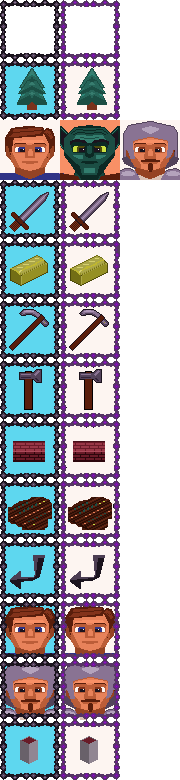
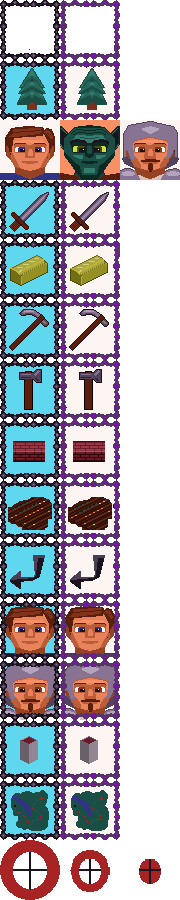
UI for peasant walk location.  Everything hooked up, but peasant doesn't walk yet.

diff --git a/js/userInterface.js b/js/userInterface.js
@@ -9,6 +9,7 @@ var farmBuildX = 10, farmBuildY = 200;
 var peasantMainMenuX = 10, peasantMainMenuY = 400;
 var pictureWidth = 60, pictureHeight = 60;
 var towerX = 10, towerY = 300;
+var walkX = 100, walkY = 120;
 var showHelp = true;
 
 var peasantSelected = false, warriorSelected = false;
@@ -22,6 +23,7 @@ var buildWallHovering = false, buildWallSelected = false;
 var farmBuildHovering = false, farmBuildSelected = false;
 var farmButtonHovering = false, farmButtonSelected = false, farmReadyToBePlaced = false;
 var towerButtonHovering = false, towerButtonSelected = false, towerReadyToBePlaced = false;
+var walkButtonHovering = false, walkButtonSelected = false, walkLocationReadyToBePlaced = false;
 var peasantReturnMenuHovering = false, peasantReturnMenuSelected = false;
 
 var showTowerToBuild = false, showWallToBuild = false, showFarmToBuild = false;
@@ -91,7 +93,7 @@ function checkForPlayersSelected(){
 
 // Various actions for units (lumber, attack, gold, farm)
 function lumberAction(actionList) {
-  console.log("Lumber Action")
+ // console.log("Lumber Action")
   for (var i = 0; i < actionList.length; i++) {
     var nearestTreeFoundForPeasant = findClosestUnitInRange(actionList[i].x, actionList[i].y, UNIT_AI_TREE_RANGE, trees);
     if (nearestTreeFoundForPeasant) {
@@ -102,7 +104,7 @@ function lumberAction(actionList) {
         actionList[i].focus = "trees";
         var goalTile = pixelCoordToIndex(actionList[i].myTarget.x, actionList[i].myTarget.y);
         startPath(goalTile, actionList[i]);
-        console.log("Lumber Action "+i+" of "+actionList.length+" generated a path to a nearby tree at "+Math.round(nearestTreeFoundForPeasant.x)+","+Math.round(nearestTreeFoundForPeasant.y));
+  //      console.log("Lumber Action "+i+" of "+actionList.length+" generated a path to a nearby tree at "+Math.round(nearestTreeFoundForPeasant.x)+","+Math.round(nearestTreeFoundForPeasant.y));
     } else {
         console.log("Error: NO nearby tree found!!!"); // should never happen unless you play for HOURS
     }
@@ -286,6 +288,24 @@ function returnToPeasantMainMenu(){
   peasantMainMenu = true;
 }
 
+var showWalkLocation = false;
+var walkDelayTimer = 20;
+
+function walkAction(){
+  showWalkLocation = true;
+  walkDelayTimer--;
+  var unitsAlongSide = Math.floor(Math.sqrt(selectedUnits.length+2));
+  if(walkDelayTimer <= 0 && mouseClicked){
+    for (var i = 0; i < selectedUnits.length; i++) {
+      selectedUnits[i].gotoNear(mouseX, mouseY, i, unitsAlongSide);
+    }
+    selectedUnits = [];
+    //peasantMainMenu = false;
+    showWalkLocation = false;
+    walkDelayTimer = 20;
+  }
+}
+
 function recruitPeasant(){
   if(foodAvailable >= 10 && goldAvailable >= 1){
     headQuartersUI = false;
@@ -342,12 +362,14 @@ function checkButtonHandling(){
     constructionButtonHovering = checkMouseInsideBox(constructionX, constructionY, pictureWidth, pictureHeight);
     recruitPeasantBoxHovering = checkMouseInsideBox(recruitPeasantX, recruitPeasantY, pictureWidth, pictureHeight);
     recruitWarriorBoxHovering = checkMouseInsideBox(recruitWarriorX, recruitWarriorY, pictureWidth, pictureHeight);
+    walkButtonHovering = checkMouseInsideBox(walkX, walkY, pictureWidth, pictureHeight);
 
     handleButtonClick(mouseClicked, lumberButtonHovering, lumberButtonSelected, lumberAction);
     handleButtonClick(mouseClicked, attackButtonHovering, attackButtonSelected, attackAction);  
     handleButtonClick(mouseClicked, goldButtonHovering, goldButtonSelected, goldAction);
     handleButtonClick(mouseClicked, farmButtonHovering, farmButtonSelected, farmAction);
     handleButtonClick(mouseClicked, constructionButtonHovering, constructionButtonSelected, constructionAction);
+    handleButtonClick(mouseClicked, walkButtonHovering, walkButtonSelected, walkAction);
   }
 
   if (peasantSelected && peasantConstructionMenu) {
@@ -360,7 +382,6 @@ function checkButtonHandling(){
     handleButtonClick(mouseClicked, farmBuildHovering, farmBuildSelected, displayFarmToBuild); 
     handleButtonClick(mouseClicked, peasantReturnMenuHovering, peasantReturnMenuSelected, returnToPeasantMainMenu);
     handleButtonClick(mouseClicked, towerButtonHovering, towerButtonSelected, displayTowerToBuild);
-   // console.log(buildWallHovering,farmBuildHovering, towerButtonHovering, peasantReturnMenuHovering)
   }
 
   if(wallReadyToBePlace){
@@ -454,6 +475,7 @@ function drawUserInterface() {
     drawButton(attackX, attackY, userInterfacePic, 180, "ATTACK", null, attackButtonHovering, attackButtonSelected);
     drawButton(goldX, goldY, userInterfacePic, 240, "MINE", "GOLD", goldButtonHovering, goldButtonSelected);
     drawButton(farmX, farmY, userInterfacePic, 300, "FARM", "FOOD", farmButtonHovering, farmButtonSelected);
+    drawButton(walkX, walkY, userInterfacePic, 780, "WALK", null, walkButtonHovering, walkButtonSelected);
   }
 
   if (peasantSelected && peasantConstructionMenu) {

diff --git a/js/main.js b/js/main.js
@@ -21,6 +21,8 @@ var trees = [];
 var mines = [];
 var peasantFarm = [];
 var enemyAIManager = new enemyAITeamClass();
+var movementFrameX = 0;
+var movementFrame = 0;
 
 var skipIntroNow = false; // set to true on keypress or mousedown
 var isGamePaused = false;
@@ -104,6 +106,9 @@ function moveEverything() {
   for(var i=0;i<allUnits.length;i++) {
     allUnits[i].move();
   }
+  if(showWalkLocation){
+    walkAction();
+  }
   removeDeadUnits();
   checkButtonHandling();
   enemyAIManager.update();
@@ -128,7 +133,7 @@ function drawEverything() {
       transitionToGame(elapsedTime);
   } else { 
  //   requestAnimationFrame(gameLoop);  
-    drawGame();
+      drawGame();
 }
 }
 
@@ -184,6 +189,20 @@ function drawGame(){
   if(showTowerToBuild){
     drawBitmapCenteredAtLocationNoCameraCulling(towerPic, 0, 270,100,90, mouseX+camera.x, mouseY+camera.y);
   }
+  
+  if(showWalkLocation){
+    movementFrame++;
+    if(movementFrame >= 12){
+      movementFrameX++;
+      movementFrame = 0;
+      if(movementFrameX > 2){
+        movementFrameX = 0;
+      }
+    }
+    console.log("Frame: " + movementFrameX)
+    drawBitmapCenteredAtLocation(userInterfacePic, movementFrameX*60, 840, 60,60,mouseX+camera.x, mouseY+camera.y);
+  }
+
   if(fogOfWarOn){
     drawFogOfWar();   //Turning off for now.  Fog of War when working eliminates the canvas to the background layer.
 
@@ -192,6 +211,7 @@ function drawGame(){
     canvasContext.globalAlpha = 1.0;
     canvasContext.drawImage(unexploredCanvas,-SIZE_OF_THE_SHORE,-SIZE_OF_THE_SHORE); 
   }
+
   canvasContext.restore(); // unshift camera pos
 
   drawUserInterface();

diff --git a/js/EnemyAITeam.js b/js/EnemyAITeam.js
@@ -89,11 +89,11 @@ function enemyAITeamClass(){
                     enemy.returntoHQAction();
                 }
             } else if (isFocusingOnGold) {
-                console.log(enemy.gold)
+            //    console.log(enemy.gold)
                 if (enemy.gold === 0) {
                     // Find the nearest mine and assign it as a target
                     const nearestMine = findClosestUnitInRange(enemy.x, enemy.y, UNIT_AI_MINE_RANGE, mines);
-                    console.log("Focus is on Gold:" + nearestMine);
+           //         console.log("Focus is on Gold:" + nearestMine);
                     enemy.actionSx = 15 * 2;
                     assignGoblinTarget(enemy, nearestMine, "mines");
                 } else if (enemy.gold > 0) {
